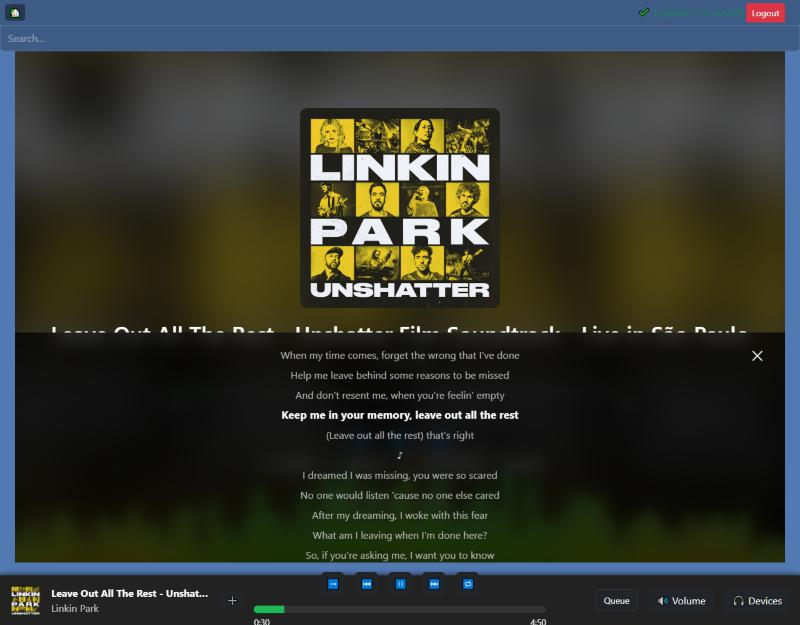
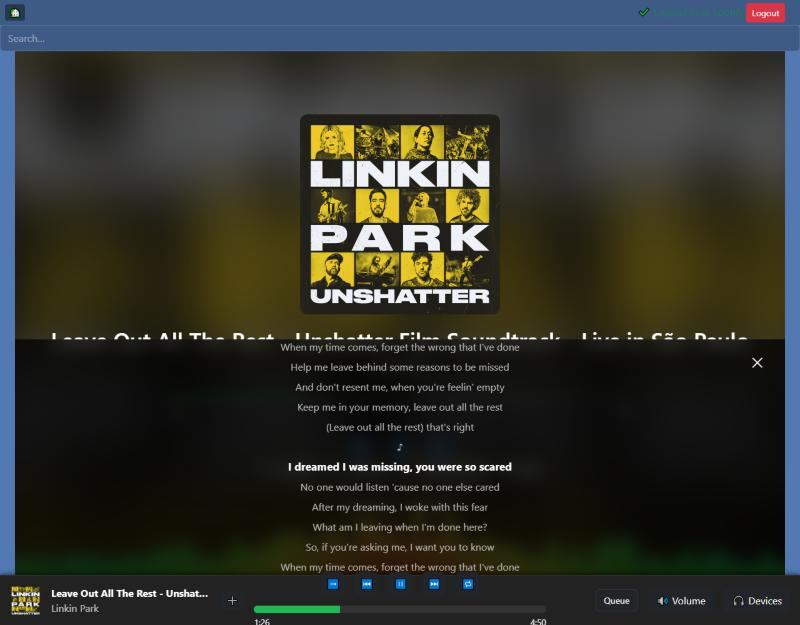
Close the gap above the player bar on Now Playing
Now Playing runs right down to the player bar instead of leaving the
20px band other pages keep for breathing room. Retook both README
screenshots without the band.

Changed region(s): [[0.0, 0.152, 1.0, 1.0], [0.2188, 0.8208, 0.25, 0.8512]]

diff --git a/SpotifyBlazor/Client/wwwroot/css/app.css b/SpotifyBlazor/Client/wwwroot/css/app.css
@@ -613,15 +613,20 @@ a {
 }
 
 /* Fullscreen container: exactly the space between the header (40px login bar + 42px
-   search box) and the player bar, matching .content-root's bottom padding, so the page
-   doesn't scroll. clip, not hidden: a hidden overflow can still be scrolled by the
-   browser (e.g. when a button near the bottom gets focus), which shoved the cover off the top. */
+   search box) and the player bar, so the page doesn't scroll. clip, not hidden: a hidden
+   overflow can still be scrolled by the browser (e.g. when a button near the bottom gets
+   focus), which shoved the cover off the top. */
 .np-container {
     position: relative;
     width: 100%;
-    height: calc(100vh - 82px - var(--playerbar-height) - 20px);
-    height: calc(100dvh - 82px - var(--playerbar-height) - 20px);
+    height: calc(100vh - 82px - var(--playerbar-height));
+    height: calc(100dvh - 82px - var(--playerbar-height));
     overflow: clip;
+}
+
+/* Other pages keep 20px of room above the player bar; Now Playing runs right down to it */
+.content-root:has(.np-container) {
+    padding-bottom: var(--playerbar-height);
 }
 
 /* Background blur */
